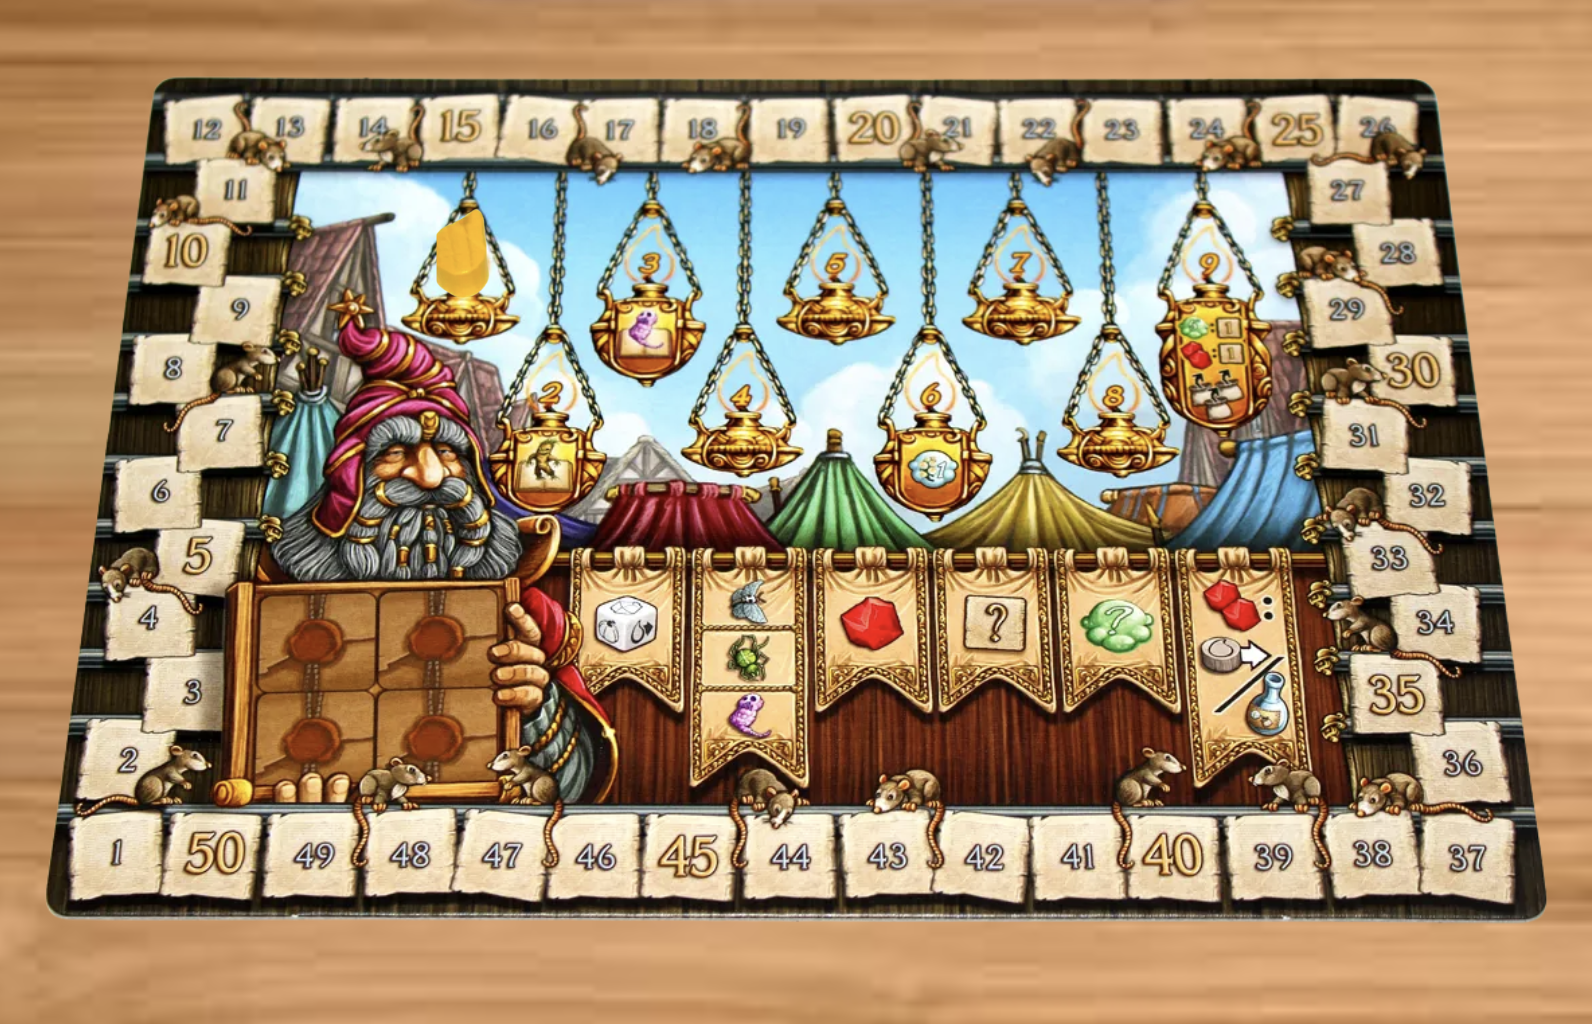
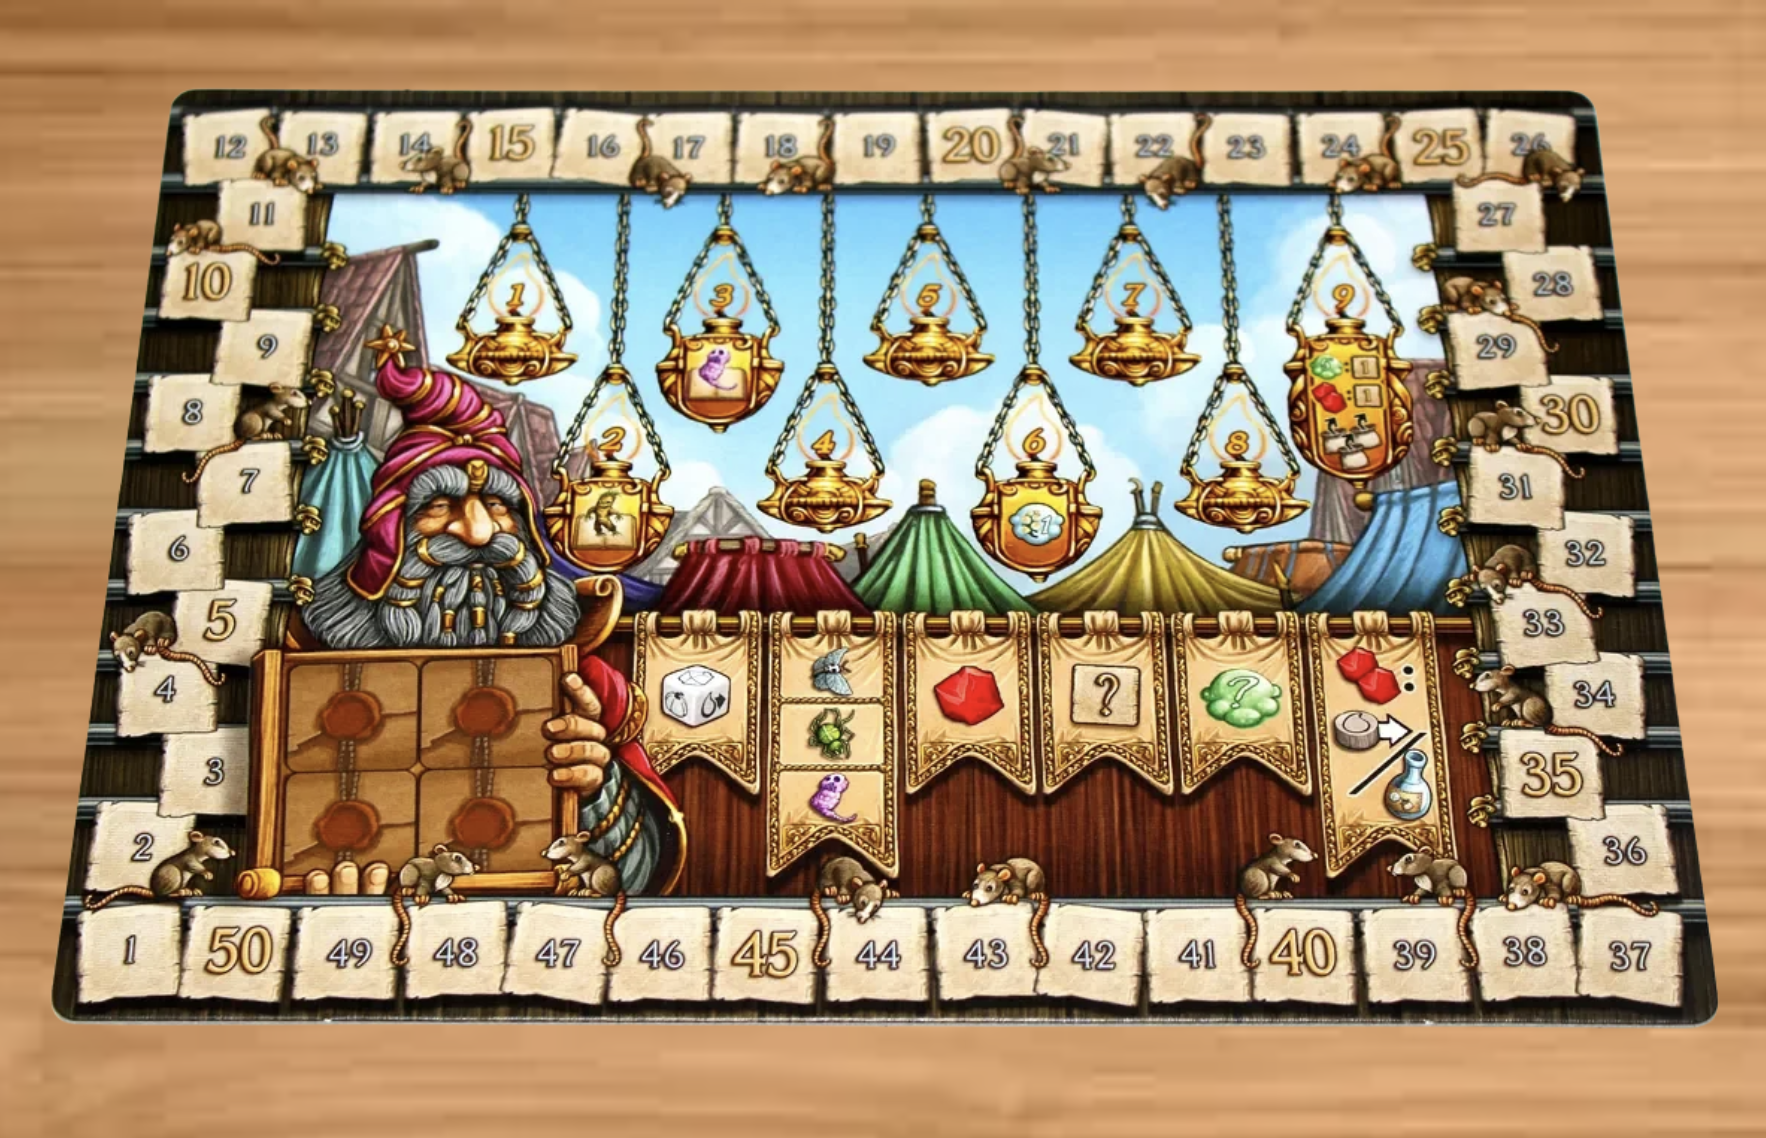
super cool start to the victory board

Changed region(s): [[0.0308, 0.0625, 0.9849, 0.9062]]

diff --git a/TODO/QuacksExtraPanel.java b/TODO/QuacksExtraPanel.java
@@ -13,7 +13,7 @@ import java.util.Collections;
 public class QuacksExtraPanel extends JPanel implements MouseListener, KeyListener
 {
     private BufferedImage selectSet, menu, rPg1, rPg2, rPg3, rPg4, rPg5, rPg6, rPg7, rPg8, pNum, busted, fCard, vBoard, yDrop, gDrop, rDrop, bDrop;
-    private BufferedImage q1, q2, q3, q4, locked, board, gMode;
+    private BufferedImage q1, q2, q3, q4, locked, board, gMode, fMarker;
     private BufferedImage bPhase21, bPhase22, bPhase23, bPhase24, bPhase31, bPhase32, bPhase33, bPhase34;
     private BufferedImage bFCard1, bFCard2, bFCard3, bFCard4, bFCard5, bFCard6, bFCard7, bFCard8, bFCard9;
     private BufferedImage pFCard1, pFCard2, pFCard3, pFCard4, pFCard5, pFCard6, pFCard7, pFCard8, pFCard9;
@@ -22,9 +22,10 @@ public class QuacksExtraPanel extends JPanel implements MouseListener, KeyListen
     private int[] vbSpot = new int[4];
     
     private int selectedSet;
+    private String m;
     private int numPlayers;
     private boolean hotSeat;
-    private int cBuyer = 1;
+    private int cBuyer = 0;
     
     private String choice = "menu";
     private BufferedImage activeDrawnCard = null; //current card displayed
@@ -36,7 +37,15 @@ public class QuacksExtraPanel extends JPanel implements MouseListener, KeyListen
         try
         {
             board = ImageIO.read(QuacksExtraPanel.class.getResource("Image/Background.png"));
+            fMarker = ImageIO.read(QuacksExtraPanel.class.getResource("Image/FlameMarker.png"));
             bPhase24 = ImageIO.read(QuacksExtraPanel.class.getResource("Image/buyPhase.png"));
+            bPhase23 = ImageIO.read(QuacksExtraPanel.class.getResource("Image/buyPhase23.png"));
+            bPhase22 = ImageIO.read(QuacksExtraPanel.class.getResource("Image/buyPhase22.png"));
+            bPhase21 = ImageIO.read(QuacksExtraPanel.class.getResource("Image/buyPhase21.png"));
+            bPhase34 = ImageIO.read(QuacksExtraPanel.class.getResource("Image/buyPhase34.png"));
+            bPhase33 = ImageIO.read(QuacksExtraPanel.class.getResource("Image/buyPhase33.png"));
+            bPhase32 = ImageIO.read(QuacksExtraPanel.class.getResource("Image/buyPhase32.png"));
+            bPhase31 = ImageIO.read(QuacksExtraPanel.class.getResource("Image/buyPhase31.png"));
             gMode = ImageIO.read(QuacksExtraPanel.class.getResource("Image/GameMode.png"));
             selectSet = ImageIO.read(QuacksExtraPanel.class.getResource("Image/SetSelect.png"));
             menu = ImageIO.read(QuacksExtraPanel.class.getResource("Image/MainMenu.png"));
@@ -193,12 +202,68 @@ public class QuacksExtraPanel extends JPanel implements MouseListener, KeyListen
             {
                 g.drawImage(bPhase24, 0, 0, panelWidth, panelHeight, null);
             }
-        } 
+        }
+        else if (choice.equals("bPhase23")) 
+        {
+            if (bPhase23 != null)
+            {
+                g.drawImage(bPhase23, 0, 0, panelWidth, panelHeight, null);
+            }
+        }
+        else if (choice.equals("bPhase22")) 
+        {
+            if (bPhase22 != null)
+            {
+                g.drawImage(bPhase22, 0, 0, panelWidth, panelHeight, null);
+            }
+        }
+        else if (choice.equals("bPhase21")) 
+        {
+            if (bPhase21 != null)
+            {
+                g.drawImage(bPhase21, 0, 0, panelWidth, panelHeight, null);
+            }
+        }
+        else if (choice.equals("bPhase34")) 
+        {
+            if (bPhase34 != null)
+            {
+                g.drawImage(bPhase34, 0, 0, panelWidth, panelHeight, null);
+            }
+        }
+        else if (choice.equals("bPhase33")) 
+        {
+            if (bPhase33 != null)
+            {
+                g.drawImage(bPhase33, 0, 0, panelWidth, panelHeight, null);
+            }
+        }
+        else if (choice.equals("bPhase32")) 
+        {
+            if (bPhase32 != null)
+            {
+                g.drawImage(bPhase32, 0, 0, panelWidth, panelHeight, null);
+            }
+        }
+        else if (choice.equals("bPhase31")) 
+        {
+            if (bPhase31 != null)
+            {
+                g.drawImage(bPhase31, 0, 0, panelWidth, panelHeight, null);
+            }
+        }
         else if (choice.equals("busted")) 
         {
             if (busted != null) 
             {
                 g.drawImage(busted, 0, 0, panelWidth, panelHeight, null);
+            }
+        } 
+        else if (choice.equals("vBoard")) 
+        {
+            if (vBoard != null) 
+            {
+                g.drawImage(vBoard, 0, 0, panelWidth, panelHeight, null);
             }
         } 
         else if (choice.startsWith("rPg")) 
@@ -223,6 +288,107 @@ public class QuacksExtraPanel extends JPanel implements MouseListener, KeyListen
             g.setColor(Color.WHITE);
             g.setFont(new Font("Arial", Font.BOLD, 18));
             g.drawString("← Back", 48, 62);
+        }
+        
+      //Green "Next" button on buying phase
+        if(choice.contains("bPhase") && cBuyer == 0)
+        {
+        	g.setColor(Color.GREEN);
+            g.fillRect(282+50, 838, 100, 50);
+            g.setColor(Color.WHITE);
+            g.setFont(new Font("Arial", Font.BOLD, 18));
+            g.drawString("Start", 282+78, 838+32);
+        }
+        if(choice.contains("bPhase") && cBuyer > 0 && cBuyer < 4)
+        {
+        	if(cBuyer == 1)
+        	{
+        		int xSpot = 78;
+                int ySpot = 108;
+                int width = 578;
+                int height = 125;
+                int thickness = 10;
+
+                g.setColor(Color.WHITE);
+
+                for (int i = 0; i < thickness; i++) 
+                {
+                    g.drawRect(xSpot + i, ySpot + i, width - (i * 2), height - (i * 2));
+                }
+                g.setColor(Color.GREEN);
+                g.fillRect(282+50, 838, 100, 50);
+                g.setColor(Color.WHITE);
+                g.setFont(new Font("Arial", Font.BOLD, 18));
+                g.drawString("Next", 282+78, 838+32);
+        	}
+        	if(cBuyer == 2)
+        	{
+        		int xSpot = 78;
+                int ySpot = 108+173;
+                int width = 578;
+                int height = 125;
+                int thickness = 10;
+
+                g.setColor(Color.WHITE);
+
+                for (int i = 0; i < thickness; i++) 
+                {
+                    g.drawRect(xSpot + i, ySpot + i, width - (i * 2), height - (i * 2));
+                }
+                g.setColor(Color.GREEN);
+                g.fillRect(282+50, 838, 100, 50);
+                g.setColor(Color.WHITE);
+                g.setFont(new Font("Arial", Font.BOLD, 18));
+                g.drawString("Next", 282+78, 838+32);
+        	}
+        	if(cBuyer == 3)
+        	{
+        		int xSpot = 78;
+                int ySpot = 108+173+203;
+                int width = 578;
+                int height = 125;
+                int thickness = 10;
+
+                g.setColor(Color.WHITE);
+
+                for (int i = 0; i < thickness; i++) 
+                {
+                    g.drawRect(xSpot + i, ySpot + i, width - (i * 2), height - (i * 2));
+                }
+                g.setColor(Color.GREEN);
+                g.fillRect(282+50, 838, 100, 50);
+                g.setColor(Color.WHITE);
+                g.setFont(new Font("Arial", Font.BOLD, 18));
+                g.drawString("Next", 282+78, 838+32);
+        	}
+        }
+        if(choice.contains("bPhase") && cBuyer == 4)
+        {
+        	int xSpot = 78;
+            int ySpot = 740-37-20;
+            int width = 578;
+            int height = 125;
+            int thickness = 10;
+
+            g.setColor(Color.WHITE);
+
+            for (int i = 0; i < thickness; i++) 
+            {
+                g.drawRect(xSpot + i, ySpot + i, width - (i * 2), height - (i * 2));
+            }
+        	g.setColor(Color.GREEN);
+            g.fillRect(282+50, 838, 100, 50);
+            g.setColor(Color.WHITE);
+            g.setFont(new Font("Arial", Font.BOLD, 18));
+            g.drawString("Continue", 282+63, 838+32);
+        }
+        if(choice.equals("vBoard"))
+        {
+        	g.setColor(Color.GREEN);
+            g.fillRect(getWidth()/2-50, 866, 150, 50);
+            g.setColor(Color.WHITE);
+            g.setFont(new Font("Arial", Font.BOLD, 18));
+            g.drawString("Move Drop", getWidth()/2-50+23, 866+32);//(496,866)
         }
     }
 
@@ -265,6 +431,27 @@ public class QuacksExtraPanel extends JPanel implements MouseListener, KeyListen
             }  else if (choice.equals("bPhase24")) 
             {
                 choice = "fCard";
+            }  else if (choice.equals("bPhase23")) 
+            {
+                choice = "fCard";
+            }  else if (choice.equals("bPhase22")) 
+            {
+                choice = "fCard";
+            }  else if (choice.equals("bPhase21")) 
+            {
+                choice = "fCard";
+            }  else if (choice.equals("bPhase34")) 
+            {
+                choice = "fCard";
+            }  else if (choice.equals("bPhase33")) 
+            {
+                choice = "fCard";
+            }  else if (choice.equals("bPhase32")) 
+            {
+                choice = "fCard";
+            }  else if (choice.equals("bPhase31")) 
+            {
+                choice = "fCard";
             }
             else if (choice.startsWith("rPg")) 
             {
@@ -282,6 +469,10 @@ public class QuacksExtraPanel extends JPanel implements MouseListener, KeyListen
             }else if (choice.equals("fCard"))
             {
             	choice = "gMode";
+            }
+            else if(choice.equals("vBoard"))
+            {
+            	choice = m;
             }
             repaint();
             return;
@@ -306,21 +497,25 @@ public class QuacksExtraPanel extends JPanel implements MouseListener, KeyListen
             {
                 selectedSet = 1;
                 choice = "pNum";
+                System.out.println("Set number: "+ selectedSet);
             }
             else if (x >= 826 && x <= 1296 && y >= 310 && y <= 583)
             {
                 selectedSet = 2;
                 choice = "pNum";
+                System.out.println("Set number: "+ selectedSet);
             }
             else if (x >= 175 && x <= 611 && y >= 505 && y <= 791)
             {
                 selectedSet = 3;
                 choice = "pNum";
+                System.out.println("Set number: "+ selectedSet);
             }
             else if (x >= 795 && x <= 1258 && y >= 627 && y <= 903)
             {
                 selectedSet = 4;
                 choice = "pNum";
+                System.out.println("Set number: "+ selectedSet);
             }
         }
         //PLAYER NUMBER SELECT SCREEN -> leads to Fortune Card screen & resets deck
@@ -331,24 +526,28 @@ public class QuacksExtraPanel extends JPanel implements MouseListener, KeyListen
                 numPlayers = 1;
                 choice = "gMode";
                 resetFortuneDeck();
+                System.out.println("Number of Players: " + numPlayers);
             }
             else if (x >= 116 && x <= 597 && y >= 533 && y <= 909)
             {
                 numPlayers = 2;
                 choice = "gMode";
                 resetFortuneDeck();
+                System.out.println("Number of Players: " + numPlayers);
             }
             else if (x >= 836 && x <= 1375 && y >= 142 && y <= 530)
             {
                 numPlayers = 3;
                 choice = "gMode";
                 resetFortuneDeck();
+                System.out.println("Number of Players: " + numPlayers);
             }
             else if (x >= 839 && x <= 1331 && y >= 547 && y <= 912)
             {
                 numPlayers = 4;
                 choice = "gMode";
                 resetFortuneDeck();
+                System.out.println("Number of Players: " + numPlayers);
             }
         }
         else if(choice.equals("gMode"))
@@ -404,13 +603,71 @@ public class QuacksExtraPanel extends JPanel implements MouseListener, KeyListen
                     System.out.println("All fortune cards have been drawn!");
                 }
             }
-            // Start Brewing Button
+            // Start Brewing Button -> CURRENTLY LEADS TO BUY PHASE
             else if (activeDrawnCard != null && x >= 632 && x <= 879 && y >= 613 && y <= 688) 
             {
                 System.out.println("Start brewing clicked! Moving to brewing phase.");
-                choice = "bPhase24";
+                if(numPlayers <= 2)
+                {
+                	if(selectedSet == 4)
+                	{
+                		choice = m = "bPhase24";
+                		System.out.println("1-2 Players, Set4");
+                	}
+                	if(selectedSet == 3)
+                	{
+                		choice = m = "bPhase23";
+                		System.out.println("1-2 Players, Set3");
+                	}
+                	if(selectedSet == 2)
+                	{
+                		choice = m = "bPhase22";
+                		System.out.println("1-2 Players, Set2");
+                	}
+                	if(selectedSet == 1)
+                	{
+                		choice = m = "bPhase21";
+                		System.out.println("1-2 Players, Set1");
+                	}
+                }
+                else if(numPlayers > 2)
+                {
+                	if(selectedSet == 4)
+                	{
+                		choice = m = "bPhase34";
+                		System.out.println("3-4 Players, Set4");
+                	}
+                	if(selectedSet == 3)
+                	{
+                		choice = m = "bPhase33";
+                		System.out.println("3-4 Players, Set3");
+                	}
+                	if(selectedSet == 2)
+                	{
+                		choice = m = "bPhase32";
+                		System.out.println("3-4 Players, Set2");
+                	}
+                	if(selectedSet == 1)
+                	{
+                		choice = m = "bPhase31";
+                		System.out.println("3-4 Players, Set1");
+                	}
+                }
             }
         }
+        //BUYING PHASE
+        else if(choice.contains("bPhase") && x >=282+50 && y>= 838 && x<= 282+50+100 && y <= 838+50)
+        {
+        	if(cBuyer < 4)
+        	{
+        		cBuyer++;
+        	}
+        	else if(cBuyer == 4)
+        	{
+        		choice = "vBoard";
+        	}
+        }
+        
         //RULES PAGES NAVIGATION
         else if (choice.startsWith("rPg")) 
         {
